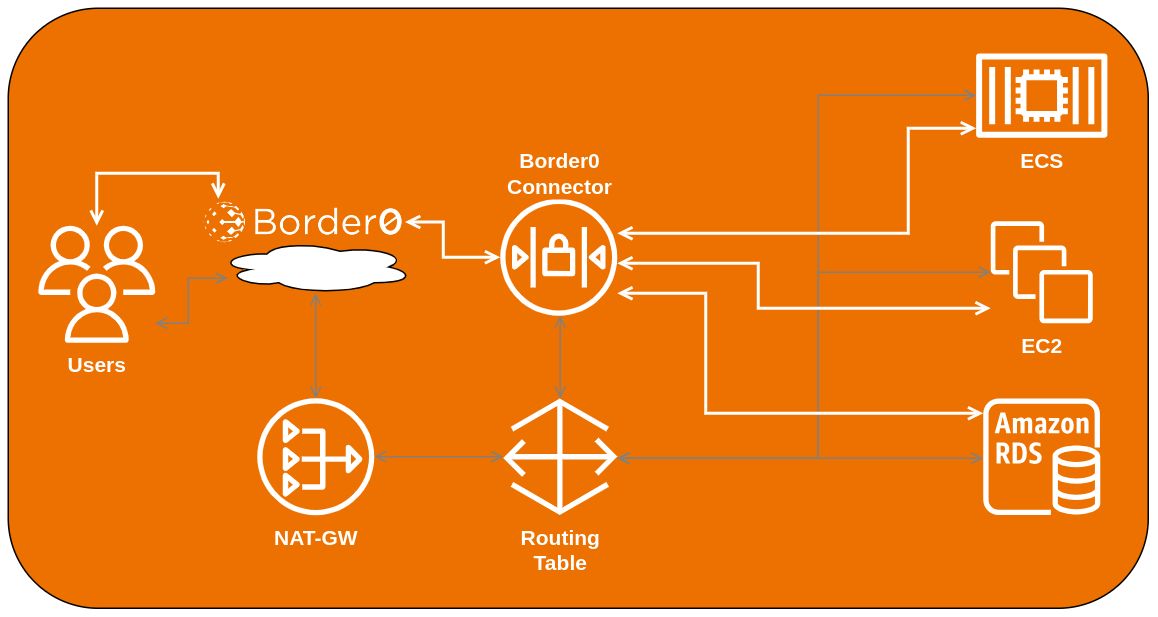
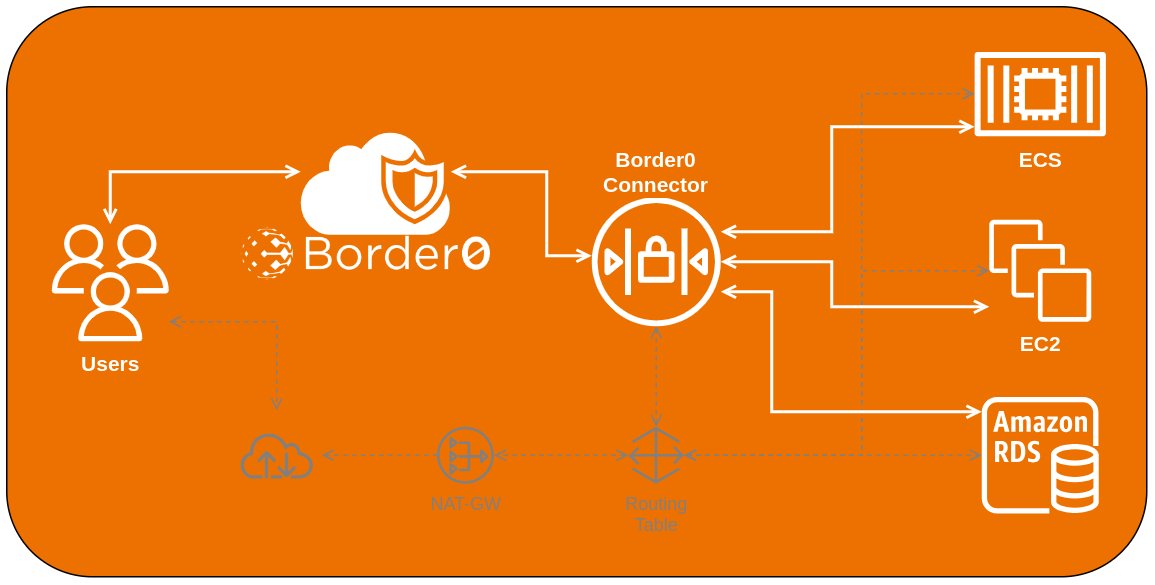
rename the main module, update tags, prefix and role privs
- Updating tags, adding prefixes to resources and epanding authentication methods

- updated README and diagram

- expanding gitignore and adding connector priviledges

diff --git a/README.md b/README.md
@@ -1,46 +1,90 @@
 # Quick On-Ramp Border0 with Terraform in AWS
 This Terraform code will let you get started with Border0 in AWS in a matter of minutes.
-For those who are hands-in we have automated the process of creating a Border0 enabled infrastructure as a great way to get started with Border0 and see how it works.
+For those who are hands-on we have automated the process of creating a Border0 enabled infrastructure as a great way to get started with Border0 and see how it works.
 ## Environment prep and assumptions
 Before we start we need to make sure our environment is set up right.
+
 We will require a functioning terraform software with AWS and Border0 credentials
 
-1. [Border0 Account](https://docs.border0.com/docs/signup) and [API Token](https://docs.border0.com/docs/creating-access-token), you can create on [Access Tokens](https://portal.border0.com/organizations/current?tab=new_token) Portal Page
+1. [Border0 Account](https://docs.border0.com/docs/signup) and [Member API Token](https://docs.border0.com/docs/creating-access-token), you can create on [Member Tokens](https://portal.border0.com/organizations/current?tab=new_token) Portal Page
 
 2. AWS Account, Access Key and Secret, you can create them here: [AWS Access Keys](https://console.aws.amazon.com/iam/home?#/security_credentials)
 
 3. Terraform, if you don't already have it, here is [Hashicpro Installation Guide](https://learn.hashicorp.com/tutorials/terraform/install-cli)
 
+> **Caution:** This code creates resources in your AWS account! Once you are finish testing, remove these resources to prevent unnecessary AWS costs. You can delete resources manually or with `terraform destroy`.
+
 ## Terraform Module Diagram
 ![Terraform Module Diagram](diagram.png)
 ## Running the Terraform On-Ramp Module
-1. Clone this repo:
+We will be creating a Border0 enabled infrastructure in AWS with the following resources:
+- VPC
+    - 2 private and 1 public subnet
+    - Internet and NAT Gatewas
+    - Security Groups
+- RDS Instance
+- ECS Cluster, Task and Service Definition
+- Client/Origin EC2 Instances
+- Border0 Connector EC2 Instance
+
+
+#### 1. Clone this repo:
 ```
 git clone https://github.com/borderzero/terraform-examples.git
 ```
 
-2. Switch to the terraform-examples/ directory:
+#### 2. Switch to the terraform-examples directory:
 ```
 cd terraform-examples
 ```
-3. Update the ``variables.tf`` file with your Border0 API Token and AWS Access Key and Secret
+#### 3. Border0 Credentials setup
 
-    Set the following variables:
-- MY_BORDER0_TOKEN - Border0 API Token
+Update the ``variables.tf`` file with your Border0 API Token
+<br>Set the ``MY_BORDER0_TOKEN`` variable to your Border0 API [Member Token](https://portal.border0.com/organizations/current?tab=new_token)
+
+#### 4. AWS Credentials setup
+
+If you happen to have your AWS default credentials set up in your environment, and you want to use them... you are good to go! Go to step 5.
+
+Otherwise, you can set up your AWS credentials in one of the following ways:
+
+#### 4a. environment variables.
+```
+export AWS_ACCESS_KEY_ID="anaccesskey"
+export AWS_SECRET_ACCESS_KEY="asecretkey"
+export AWS_REGION="us-west-2"
+export AWS_DEFAULT_REGION="us-west-2"
+```
+- SSO provider, and profiles (if you have those)
+```
+aws --profile=my-dev-account-profile sso login
+export AWS_PROFILE=my-dev-account-profile
+```
+more info on terraform aws provider [docs](https://registry.terraform.io/providers/hashicorp/aws/latest/docs)
+
+#### 4b. Static variables
+
+Update the ``variables.tf`` file with your Border0 API Token and AWS Access Key and Secret
+<br>Set the following variables:
 - MY_AWS_ACCESS_KEY - AWS Access Key
 - MY_AWS_SECRET_KEY - AWS Secret Key
 - MY_AWS_REGION - AWS Region
 
+Once you have those variables defined uncomment aws profider ``region, access_key, secret_key`` settings in the ``main.tf`` file
 
-4. Initialise the Terraform:
+  
+#### 5. Initialise the Terraform:
 ```
 terraform init
 ```
-5. Run the Terraform module:
+#### 6. Run the Terraform module:
 ```
-terraform apply
+terraform plan && terraform apply
 ```
-6. Once you are done with the Terraform module we can run cleanup:
+Once the Terraform module is done you can navigate to the Border0 Portal and see the newly created infrastructure 
+[Admin Portal](https://portal.border0.com/mysockets) and [Client Portal](https://client.border0.com/#/login)
+
+#### 7. Optioanlly, run cleanup for Terraform module:
 ```
 terraform destroy
 ```
